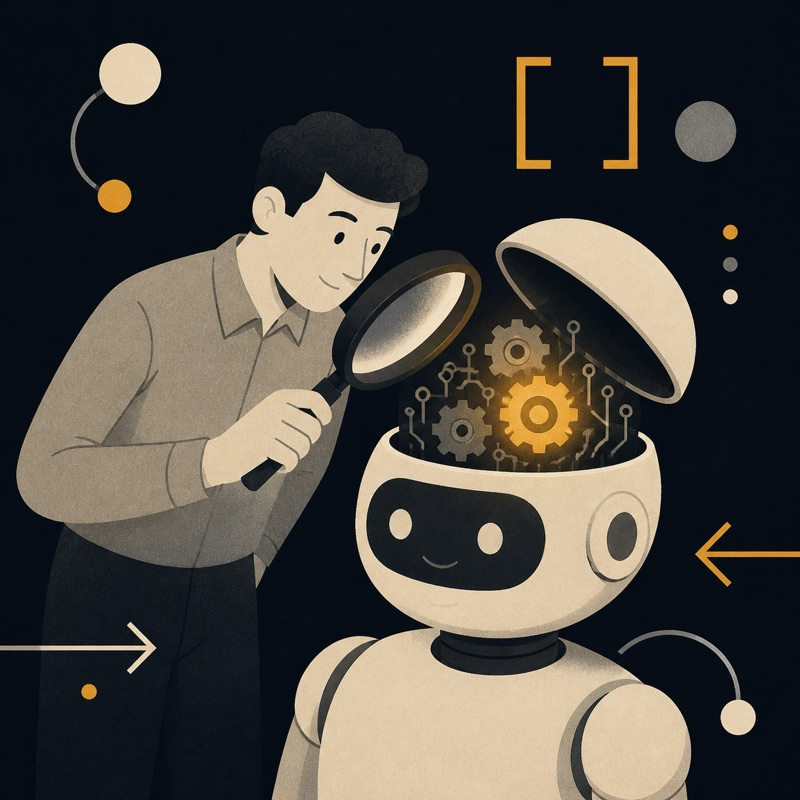
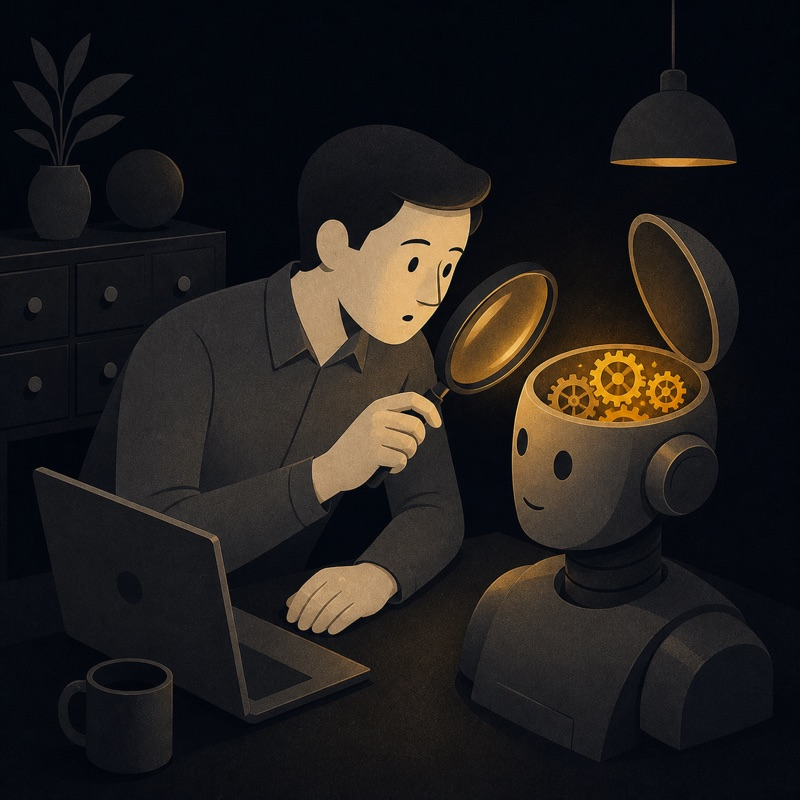
restyle site illustrations to dark cinematic editorial style

diff --git a/quartz/styles/custom.scss b/quartz/styles/custom.scss
@@ -3045,12 +3045,14 @@ body {
 .ewa-home .ewa-hero-art {
   flex: 0 0 auto;
   width: min(42%, 520px);
+  height: auto;
   border-radius: 16px;
 }
 
 .ewa-home .ewa-section-art {
   display: block;
   width: min(30%, 260px);
+  height: auto;
   margin: 2.5rem auto 0;
   border-radius: 14px;
 }
@@ -3252,10 +3254,12 @@ body {
 
   .ewa-home .ewa-hero-art {
     width: 100%;
+    height: auto;
   }
 
   .ewa-home .ewa-section-art {
     width: min(60%, 240px);
+    height: auto;
     margin-top: 1.75rem;
   }
 
@@ -3301,6 +3305,7 @@ body {
 .ewa-hub-art {
   display: block;
   width: min(240px, 64%);
+  height: auto;
   margin: clamp(1.5rem, 4vw, 2.25rem) auto 0;
   border-radius: 14px;
 }

diff --git a/content/index.md b/content/index.md
@@ -8,7 +8,7 @@
 <a class="ewa-primary-action" href="/radio.html">이번 주 라디오 듣기 <span aria-hidden="true">→</span></a>
 </div>
 </div>
-<img class="ewa-hero-art" src="/static/img/home-hero.jpg" alt="수많은 종이가 흩날리는 가운데 책상에 앉아 필요한 장만 골라 읽는 사람의 삽화" width="1536" height="1024" loading="eager">
+<img class="ewa-hero-art" src="/static/img/home-hero.jpg" alt="수많은 종이가 흩날리는 가운데 책상에 앉아 필요한 장만 골라 읽는 사람의 삽화" width="1600" height="1600" loading="eager">
 </section>
 <section class="ewa-games-section">
 <div class="ewa-section-heading">
@@ -26,7 +26,7 @@
 <p>12개 질문으로 업무의 입력·검증·도구 사용 습관을 점검합니다. 결과는 4개 축으로 보여줍니다.</p>
 </a>
 </div>
-<img class="ewa-section-art" src="/static/img/home-compare.jpg" alt="두 로봇이 각자 답을 내밀고 그 앞에서 사람이 판단을 고민하는 삽화" width="1024" height="1024" loading="lazy">
+<img class="ewa-section-art" src="/static/img/home-compare.jpg" alt="두 로봇이 각자 답을 내밀고 그 앞에서 사람이 판단을 고민하는 삽화" width="900" height="900" loading="lazy">
 </section>
 <section class="ewa-read-section">
 <div class="ewa-section-heading">
@@ -58,6 +58,6 @@
 </a>
 </div>
 </div>
-<img class="ewa-section-art" src="/static/img/home-handoff.jpg" alt="사람이 로봇에게 서식을 넘기고 로봇이 정리된 문서를 돌려주는 삽화" width="1024" height="1024" loading="lazy">
+<img class="ewa-section-art" src="/static/img/home-handoff.jpg" alt="사람이 로봇에게 서식을 넘기고 로봇이 정리된 문서를 돌려주는 삽화" width="900" height="900" loading="lazy">
 </section>
 </div>

diff --git a/content/ja/index.md b/content/ja/index.md
@@ -8,7 +8,7 @@
 <a class="ewa-primary-action" href="/ja/radio.html">今週のラジオを聴く <span aria-hidden="true">→</span></a>
 </div>
 </div>
-<img class="ewa-hero-art" src="/static/img/home-hero.jpg" alt="舞い飛ぶ紙の山から必要な一枚だけを選んで読む人のイラスト" width="1536" height="1024" loading="eager">
+<img class="ewa-hero-art" src="/static/img/home-hero.jpg" alt="舞い飛ぶ紙の山から必要な一枚だけを選んで読む人のイラスト" width="1600" height="1600" loading="eager">
 </section>
 <section class="ewa-games-section">
 <div class="ewa-section-heading">
@@ -26,7 +26,7 @@
 <p>12問で、入力・検証・AIツールの使い方を確認します。結果は4つの軸で表示されます。</p>
 </a>
 </div>
-<img class="ewa-section-art" src="/static/img/home-compare.jpg" alt="2つのロボットがそれぞれの回答を出し、人がどちらを信じるか考えているイラスト" width="1024" height="1024" loading="lazy">
+<img class="ewa-section-art" src="/static/img/home-compare.jpg" alt="2つのロボットがそれぞれの回答を出し、人がどちらを信じるか考えているイラスト" width="900" height="900" loading="lazy">
 </section>
 <section class="ewa-read-section">
 <div class="ewa-section-heading">
@@ -58,6 +58,6 @@
 </a>
 </div>
 </div>
-<img class="ewa-section-art" src="/static/img/home-handoff.jpg" alt="人がロボットに書式を渡し、ロボットが整理された文書を返すイラスト" width="1024" height="1024" loading="lazy">
+<img class="ewa-section-art" src="/static/img/home-handoff.jpg" alt="人がロボットに書式を渡し、ロボットが整理された文書を返すイラスト" width="900" height="900" loading="lazy">
 </section>
 </div>

diff --git a/content/en/index.md b/content/en/index.md
@@ -8,7 +8,7 @@
 <a class="ewa-primary-action" href="/en/radio.html">Listen to this week’s radio <span aria-hidden="true">→</span></a>
 </div>
 </div>
-<img class="ewa-hero-art" src="/static/img/home-hero.jpg" alt="Illustration of a person at a desk calmly picking the useful sheets out of a swirl of flying papers" width="1536" height="1024" loading="eager">
+<img class="ewa-hero-art" src="/static/img/home-hero.jpg" alt="Illustration of a person at a desk calmly picking the useful sheets out of a swirl of flying papers" width="1600" height="1600" loading="eager">
 </section>
 <section class="ewa-games-section">
 <div class="ewa-section-heading">
@@ -26,7 +26,7 @@
 <p>Use 12 questions to check how you handle input, verification, and AI tools at work. Results cover four areas.</p>
 </a>
 </div>
-<img class="ewa-section-art" src="/static/img/home-compare.jpg" alt="Illustration of two robots holding up their answers while a person decides which one to trust" width="1024" height="1024" loading="lazy">
+<img class="ewa-section-art" src="/static/img/home-compare.jpg" alt="Illustration of two robots holding up their answers while a person decides which one to trust" width="900" height="900" loading="lazy">
 </section>
 <section class="ewa-read-section">
 <div class="ewa-section-heading">
@@ -58,6 +58,6 @@
 </a>
 </div>
 </div>
-<img class="ewa-section-art" src="/static/img/home-handoff.jpg" alt="Illustration of a person handing a form to a robot and receiving a tidy document in return" width="1024" height="1024" loading="lazy">
+<img class="ewa-section-art" src="/static/img/home-handoff.jpg" alt="Illustration of a person handing a form to a robot and receiving a tidy document in return" width="900" height="900" loading="lazy">
 </section>
 </div>
